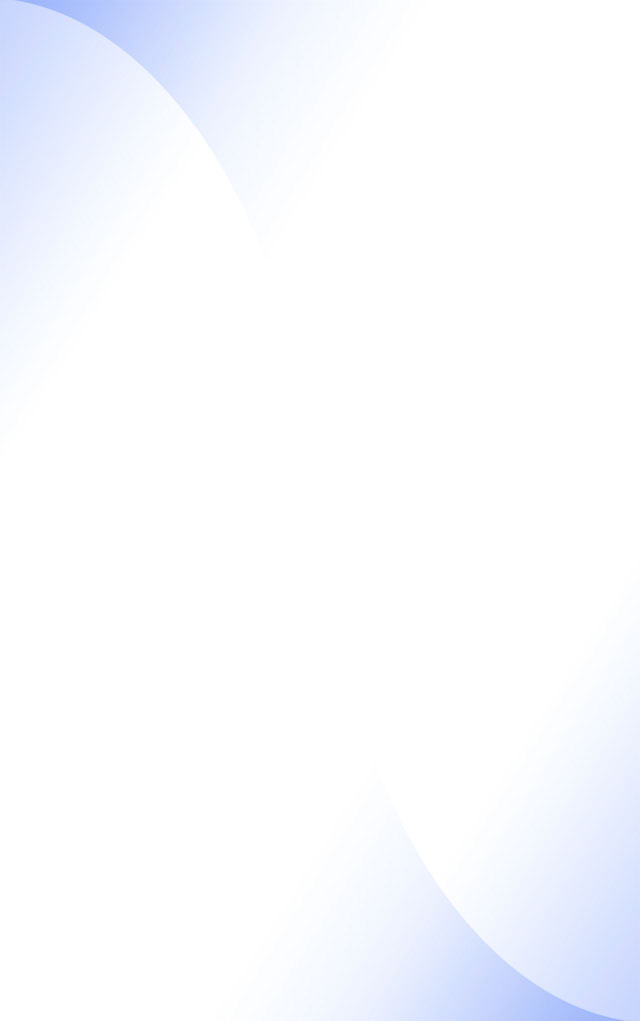
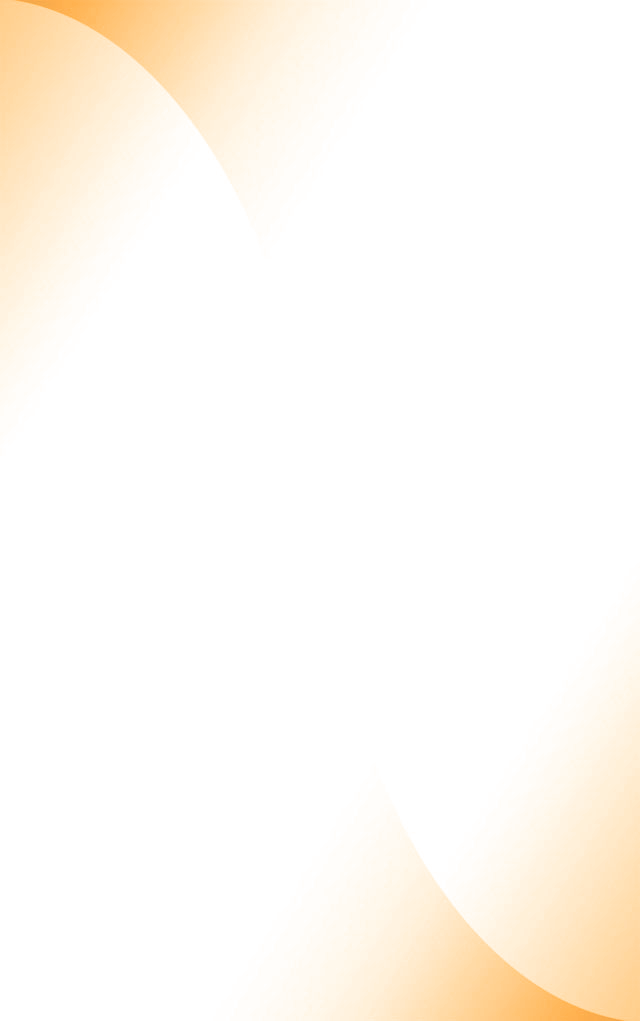
personalizzazione template

Changed region(s): [[0.5, 0.668, 1.0, 1.0], [0.0, 0.0, 0.5, 0.334]]

diff --git a/src/pages/login/login.html b/src/pages/login/login.html
@@ -6,7 +6,7 @@
     <div padding-horizontal text-center class="animated fadeInDown">
       <div class="logo"></div>
       <h2 ion-text class="text-primary">
-        <strong>Ionic 3</strong> Start Theme
+        <strong>UNISA</strong> Easy Mensa
       </h2>
     </div>
 
@@ -29,15 +29,15 @@
       </ion-item>
     </form>
 
-    <p text-right ion-text color="secondary" tappable (click)="forgotPass()"><strong>Forgot Password?</strong></p>
+    <p text-right ion-text color="secondary" tappable (click)="forgotPass()"><strong>Password Dimenticata?</strong></p>
 
     <div>
       <button ion-button icon-start block color="dark" tappable (click)="login()">
         <ion-icon name="log-in"></ion-icon>
-        SIGN IN
+        Entra
       </button>
 
-      <p text-center ion-text color="secondary">Or Sign in with:</p>
+      <p text-center ion-text color="secondary">oppure entra con:</p>
 
       <ion-grid>
         <ion-row>
@@ -64,7 +64,7 @@
 
     <!-- Other links -->
     <div text-center margin-top>
-      <span ion-text color="secondary" tappable (click)="register()">New here? <strong>Sign up</strong></span>
+      <span ion-text color="secondary" tappable (click)="register()">Nuovo utente? <strong>Registrati!</strong></span>
     </div>
 
   </div>

diff --git a/src/theme/variables.scss b/src/theme/variables.scss
@@ -7,7 +7,7 @@
 // To customize the look and feel of this app, you can override
 // the Sass variables found in Ionic's source scss files.
 
-$text-color: #4c6df9;
+$text-color: #573700;
 $background-color: #fff;
 
 // Named Color Variables
@@ -19,11 +19,11 @@ $background-color: #fff;
 // The "primary" color is the only required color in the map.
 
 $colors: (
-  primary: #4c6df9,
-  secondary: #5b5ef4,
+  primary: #ff9933,
+  secondary: #ffffff,
   danger: #f53d3d,
-  light: #75C4FD,
-  dark: #0039a2
+  light: #ffd699,
+  dark: #b36b00
 );
 
 // App Theme

diff --git a/src/pages/home/home.html b/src/pages/home/home.html
@@ -5,7 +5,7 @@
       <ion-icon name="menu"></ion-icon>
     </button>
     <ion-title>
-      <strong>Ionic 3</strong> Start Theme
+      <strong>UNISA</strong> Easy Mensa
     </ion-title>
     <ion-buttons end>
       <button ion-button tappable (click)="presentNotifications($event)">
@@ -32,7 +32,7 @@
   </ion-card>
 
   <button ion-button icon-start block no-margin color="primary" class="round" tappable (click)="doSearch()">
-    <ion-icon name="search"></ion-icon> Search
+    <ion-icon name="search"></ion-icon> Cerca
   </button>
 
 </ion-content>
